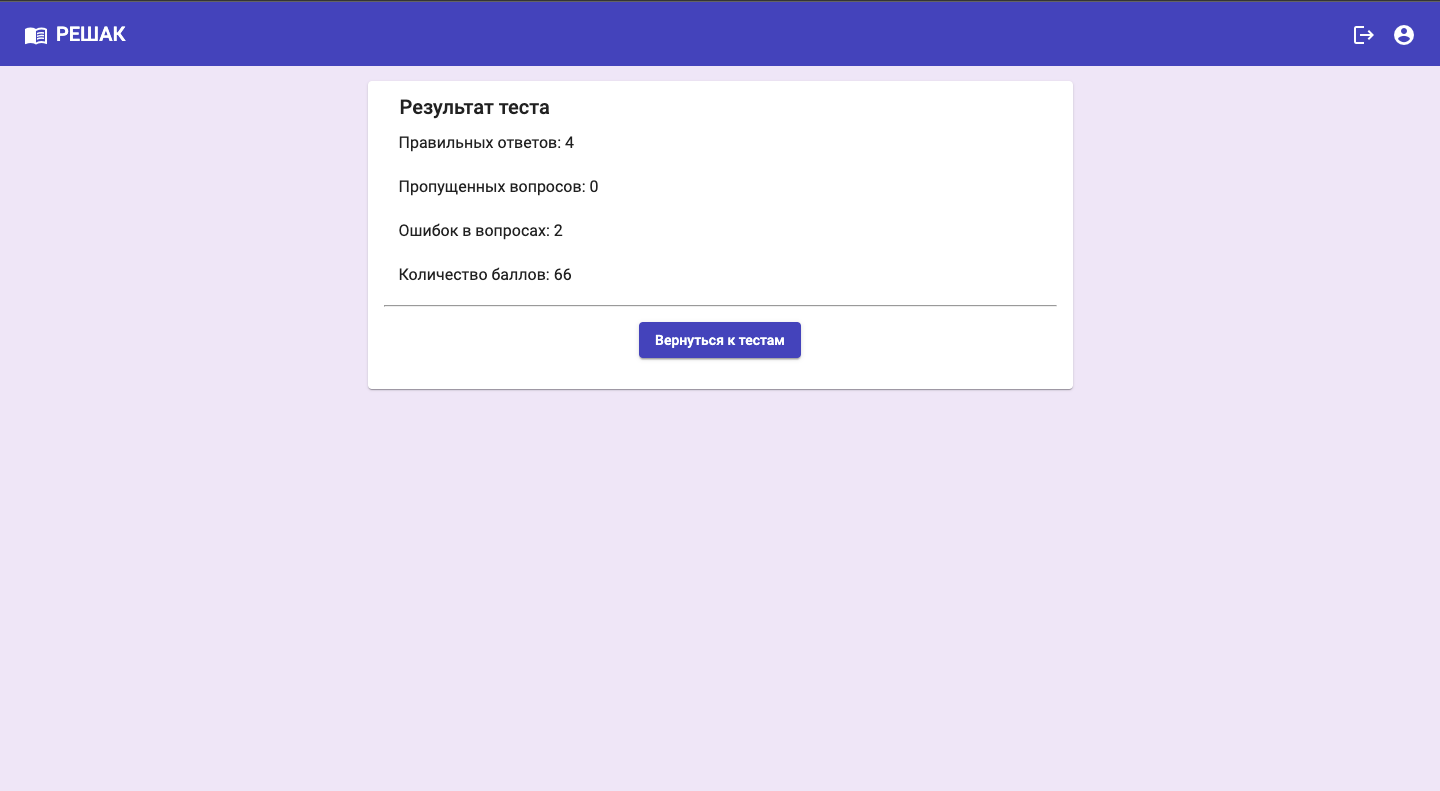
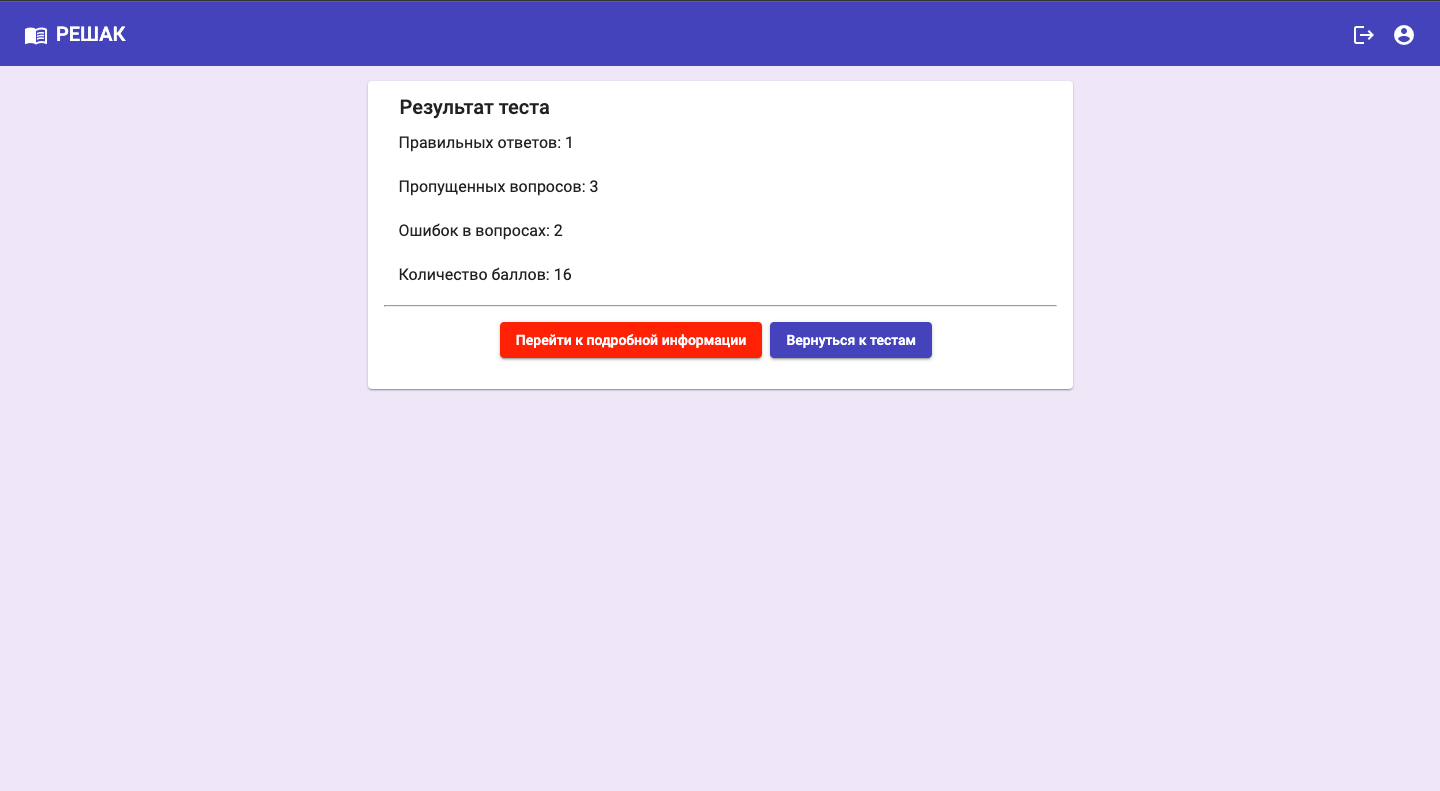
Update view results test

Changed region(s): [[0.3438, 0.3944, 0.6562, 0.4551]]

diff --git a/src/main/java/portal/service/impl/ExamResultServiceImpl.java b/src/main/java/portal/service/impl/ExamResultServiceImpl.java
@@ -1,6 +1,8 @@
 package portal.service.impl;
 
+import java.util.HashMap;
 import java.util.List;
+import java.util.Map;
 
 import org.springframework.beans.factory.annotation.Autowired;
 import org.springframework.data.crossstore.ChangeSetPersister.NotFoundException;
@@ -63,8 +65,11 @@ public class ExamResultServiceImpl implements ExamResultService {
 		int validQuestion=0;
 		int invalidQuestion=0;
 		int skipQuestion=0;
+		
+		Map<String, Map<String, String>> allExamResult = new HashMap<>();
 		Quize quize = questions.get(0).getQuize();
 		for(Question q: questions){
+			Map<String, String> givenAndAnswer = new HashMap<>();
 			Question question = questionDao.findById(q.getQuestionId()).orElseThrow(()->new NotFoundException());
 			if(q.getGivenAnswer().trim()==""||q.getGivenAnswer()==null) {
 				++skipQuestion;
@@ -74,6 +79,10 @@ public class ExamResultServiceImpl implements ExamResultService {
 			} else {
 				++invalidQuestion;
 			}
+			givenAndAnswer.put(q.getGivenAnswer(), q.getAnswer());
+			allExamResult.put(q.getContent(), givenAndAnswer);
+			
+			
 		}
 		ExamResult result = new ExamResult();
 		result.setInvalidQuestion(invalidQuestion);
@@ -84,6 +93,7 @@ public class ExamResultServiceImpl implements ExamResultService {
 			new UserNotFoundException("Результат теста не записан! Пользователь не найден"));
 		result.setUser(user);
 		result.setQuize(quize);
+		result.setQuestionsAndGivenAnswer(allExamResult);
 		examResultDao.save(result);
 		
 		return result;

diff --git a/src/main/java/portal/util/HashMapConverter.java b/src/main/java/portal/util/HashMapConverter.java
@@ -1,0 +1,45 @@
+package portal.util;
+
+import java.io.IOException;
+import java.util.Map;
+
+import javax.persistence.AttributeConverter;
+
+import org.slf4j.Logger;
+import org.slf4j.LoggerFactory;
+
+import com.fasterxml.jackson.core.JsonProcessingException;
+import com.fasterxml.jackson.databind.ObjectMapper;
+
+public class HashMapConverter implements AttributeConverter<Map<String, Object>, String> {
+	
+	private static final Logger logger = LoggerFactory.getLogger(HashMapConverter.class);
+	private ObjectMapper objectMapper = new ObjectMapper();
+	
+    @Override
+    public String convertToDatabaseColumn(Map<String, Object> customerInfo) {
+
+        String customerInfoJson = null;
+        try {
+            customerInfoJson = objectMapper.writeValueAsString(customerInfo);
+        } catch (final JsonProcessingException e) {
+            logger.error("JSON writing error", e);
+        }
+
+        return customerInfoJson;
+    }
+
+    @Override
+    public Map<String, Object> convertToEntityAttribute(String customerInfoJSON) {
+
+        Map<String, Object> customerInfo = null;
+        try {
+            customerInfo = objectMapper.readValue(customerInfoJSON, Map.class);
+        } catch (final IOException e) {
+            logger.error("JSON reading error", e);
+        }
+
+        return customerInfo;
+    }
+
+}

diff --git a/src/main/java/portal/model/ExamResult.java b/src/main/java/portal/model/ExamResult.java
@@ -7,6 +7,7 @@ import java.util.Map;
 
 import javax.persistence.CascadeType;
 import javax.persistence.Column;
+import javax.persistence.Convert;
 import javax.persistence.ElementCollection;
 import javax.persistence.Entity;
 import javax.persistence.FetchType;
@@ -19,6 +20,8 @@ import javax.persistence.Table;
 import org.hibernate.annotations.Type;
 
 import com.fasterxml.jackson.annotation.JsonFormat;
+
+import portal.util.HashMapConverter;
 
 
 @Entity
@@ -37,6 +40,24 @@ public class ExamResult {
     private User user;
     @ManyToOne(cascade = CascadeType.REFRESH, fetch = FetchType.EAGER)
     private Quize quize;
+    @Convert(converter = HashMapConverter.class)
+    private Map<String, Map<String, String>> questionsAndGivenAnswer; //Map<id  теста Map<Ответ, который дан; Правильный ответ>
+    
+   
+
+
+	public Map<String, Map<String, String>> getQuestionsAndGivenAnswer() {
+		return questionsAndGivenAnswer;
+	}
+
+
+
+
+	public void setQuestionsAndGivenAnswer(Map<String, Map<String, String>> questionsAndGivenAnswer) {
+		this.questionsAndGivenAnswer = questionsAndGivenAnswer;
+	}
+
+
 
 
 	public Long getAnswerId() {

diff --git a/README.md b/README.md
@@ -1,5 +1,5 @@
 #Java
-Проект представляет из себя портал с тестами. Есть панель администратора и панель пользователя. Администратор может добавлять категории тестов, добавлять сами тесты и вопросы к ним. Может ограничивать доступ к тестам, может редактировать все, начиная от своего профиля, заканчивая вопросами к тестам. Может удалять вопросы, категории, сами тесты, результаты тестов пользователей. Пользователь может просмотреть список доступных тестов, зайти и решить какой-то из них, результат будет доступен сразу после отправки теста на проверку. Список всех результатов он может посмотреть на отдельной странице. Он может удалить свой профиль, отредактировать информацию в нем. На портале есть регистрация и авторизация, реализованная с помощью Jwt токена. Фронт на Angular(Репозитория - ExamFront). Запросы на Back могут приходить только с указанного в CrossOrigin адреса. Также реализована защита на стороне фронта с помощью guards. Но, даже, если каким-то образом будет получен доступ к страницам администратора, на стороне BackEnd реализована защита через Permission, которая не даст обычному пользователю ничего сделать, то есть, даже, при переводе CrossOrigin к "*" ничего не изменится, так как прямые Http запросы не смогут ничего разрушить. Проект написан в учебных целях и соответственно, в каких-то местах могут встретиться недоработки, так как опыта у меня особого нет, но я старался) Можно безособых проблем расширить какие-то возможности, но, я решил, что этого результата достаточно, чтобы показать, что я что-то умею.
+Проект представляет из себя портал с тестами. Есть панель администратора и панель пользователя. Администратор может добавлять категории тестов, добавлять сами тесты и вопросы к ним. Может ограничивать доступ к тестам, может редактировать все, начиная от своего профиля, заканчивая вопросами к тестам. Может удалять вопросы, категории, сами тесты, результаты тестов пользователей. Пользователь может просмотреть список доступных тестов, зайти и решить какой-то из них, результат будет доступен сразу после отправки теста на проверку. Список всех результатов он может посмотреть на отдельной странице. Он может удалить свой профиль, отредактировать информацию в нем. На портале есть регистрация и авторизация, реализованная с помощью Jwt токена. Фронт на Angular(Репозитория - ExamFront). Запросы на Back могут приходить только с указанного в CrossOrigin адреса. Также реализована защита на стороне фронта с помощью guards. Но, если каким-то образом будет получен доступ к страницам администратора, на стороне BackEnd реализована защита через Permission, которая не даст обычному пользователю ничего сделать, то есть, при переводе CrossOrigin к "*" ничего не изменится, так как прямые Http запросы не смогут ничего разрушить. Проект написан в учебных целях и соответственно, в каких-то местах могут встретиться недоработки, так как опыта у меня особого нет, но я старался) Можно безособых проблем расширить какие-то возможности, но, я решил, что этого результата достаточно, чтобы показать, что я что-то умею.
 
 ![alt text](screenshots/Пользователь/Тест.png "Список всех заявок")
 
